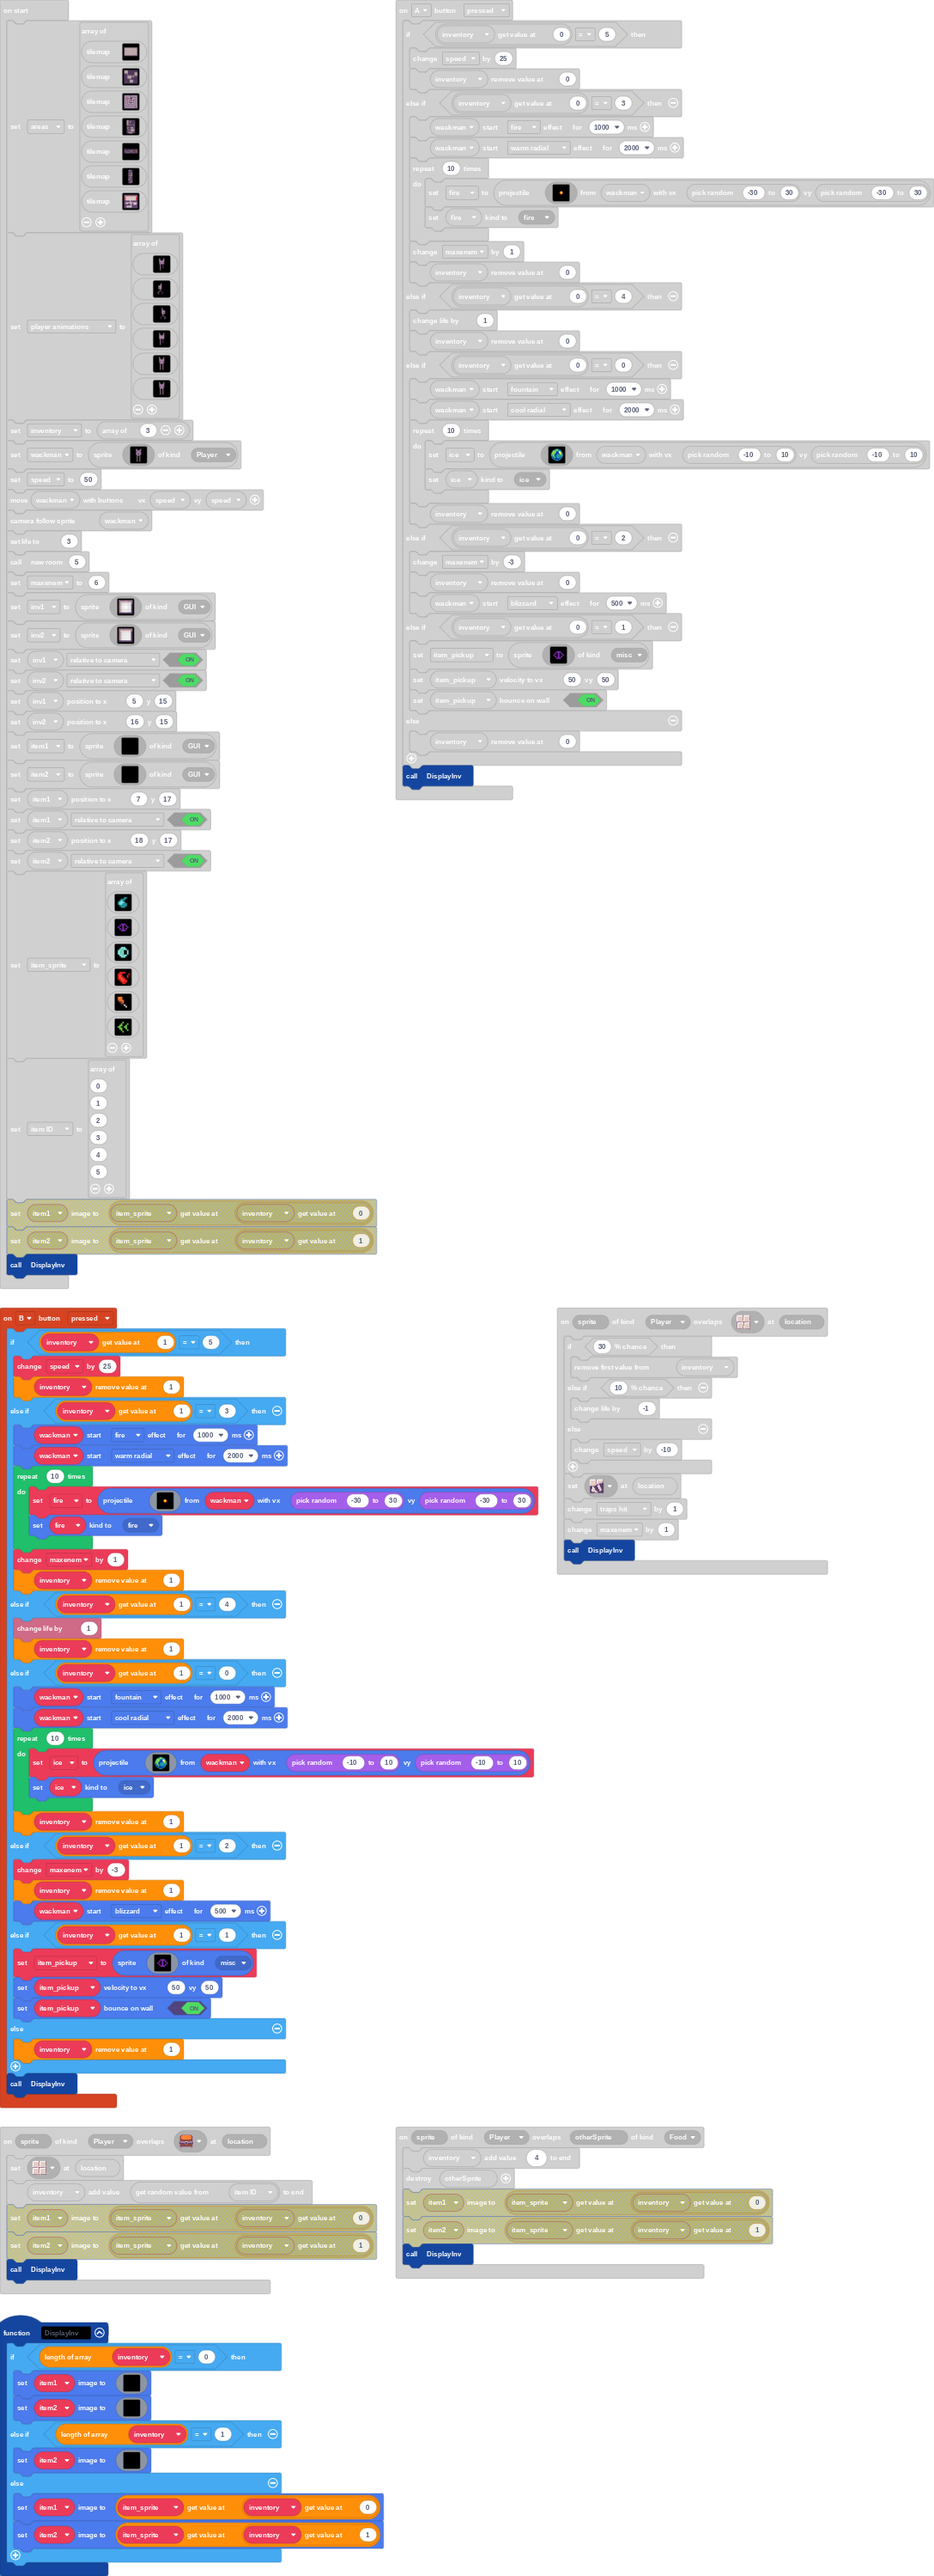
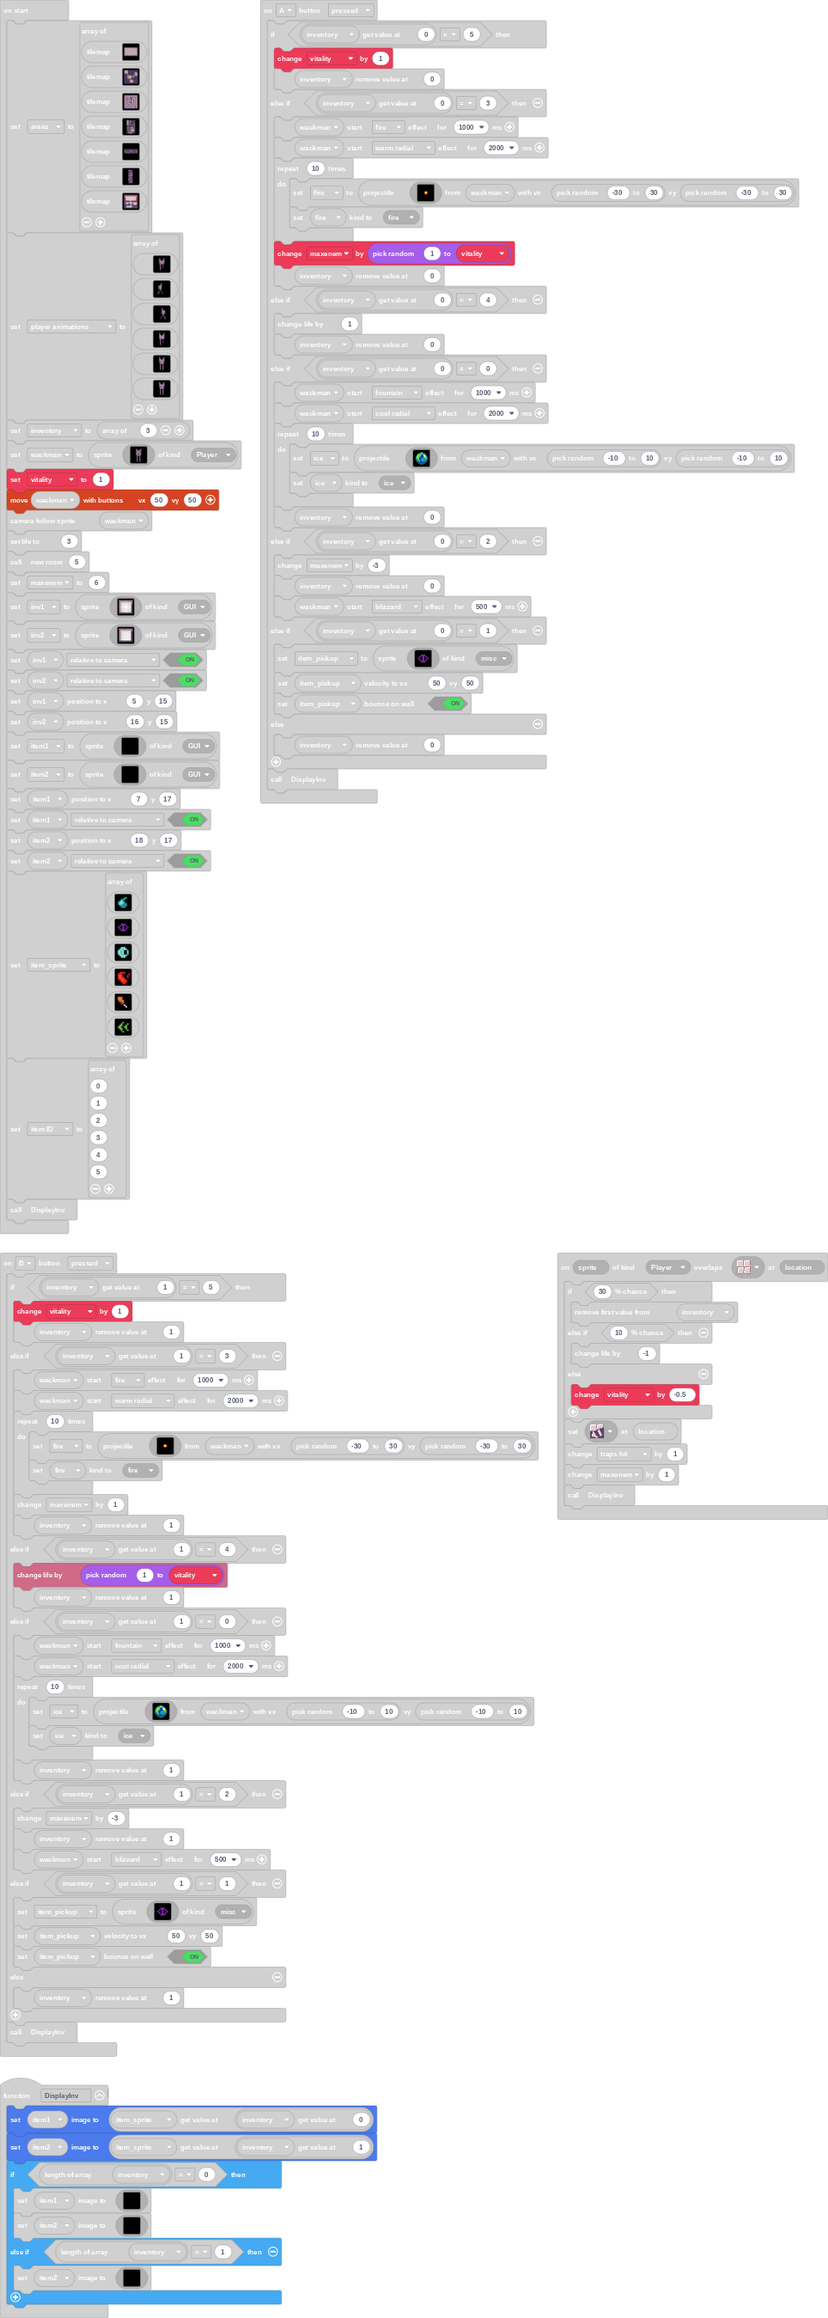
vitality

diff --git a/main.ts b/main.ts
@@ -14,7 +14,7 @@ controller.up.onEvent(ControllerButtonEvent.Pressed, function () {
 })
 controller.B.onEvent(ControllerButtonEvent.Pressed, function () {
     if (inventory[1] == 5) {
-        speed += 25
+        vitality += 1
         inventory.removeAt(1)
     } else if (inventory[1] == 3) {
         wackman.startEffect(effects.fire, 1000)
@@ -43,7 +43,7 @@ controller.B.onEvent(ControllerButtonEvent.Pressed, function () {
         maxenem += 1
         inventory.removeAt(1)
     } else if (inventory[1] == 4) {
-        info.changeLifeBy(1)
+        info.changeLifeBy(randint(1, vitality))
         inventory.removeAt(1)
     } else if (inventory[1] == 0) {
         wackman.startEffect(effects.fountain, 1000)
@@ -93,7 +93,7 @@ sprites.onOverlap(SpriteKind.fire, SpriteKind.Enemy, function (sprite, otherSpri
 })
 controller.A.onEvent(ControllerButtonEvent.Pressed, function () {
     if (inventory[0] == 5) {
-        speed += 25
+        vitality += 1
         inventory.removeAt(0)
     } else if (inventory[0] == 3) {
         wackman.startEffect(effects.fire, 1000)
@@ -119,7 +119,7 @@ controller.A.onEvent(ControllerButtonEvent.Pressed, function () {
                 `, wackman, randint(-30, 30), randint(-30, 30))
             fire.setKind(SpriteKind.fire)
         }
-        maxenem += 1
+        maxenem += randint(1, vitality)
         inventory.removeAt(0)
     } else if (inventory[0] == 4) {
         info.changeLifeBy(1)
@@ -171,6 +171,8 @@ controller.left.onEvent(ControllerButtonEvent.Pressed, function () {
     )
 })
 function DisplayInv () {
+    item1.setImage(item_sprite[inventory[0]])
+    item2.setImage(item_sprite[inventory[1]])
     if (inventory.length == 0) {
         item1.setImage(img`
             . . . . . . . . . . . . . . . . 
@@ -227,9 +229,6 @@ function DisplayInv () {
             . . . . . . . . . . . . . . . . 
             . . . . . . . . . . . . . . . . 
             `)
-    } else {
-        item1.setImage(item_sprite[inventory[0]])
-        item2.setImage(item_sprite[inventory[1]])
     }
 }
 scene.onOverlapTile(SpriteKind.Player, sprites.dungeon.chestClosed, function (sprite, location) {
@@ -326,7 +325,7 @@ scene.onOverlapTile(SpriteKind.Player, sprites.dungeon.floorLight4, function (sp
     } else if (Math.percentChance(10)) {
         info.changeLifeBy(-1)
     } else {
-        speed += -10
+        vitality += -0.5
     }
     tiles.setTileAt(location, sprites.dungeon.floorLight3)
     traps_hit += 1
@@ -346,6 +345,7 @@ let item_sprite: Image[] = []
 let item2: Sprite = null
 let item1: Sprite = null
 let maxenem = 0
+let vitality = 0
 let wackman: Sprite = null
 let inventory: number[] = []
 let player_animations: Image[][] = []
@@ -369,8 +369,8 @@ assets.animation`wacky boy DEAD`
 ]
 inventory = [3]
 wackman = sprites.create(assets.image`wacky boy item`, SpriteKind.Player)
-let speed = 50
-controller.moveSprite(wackman, speed, speed)
+vitality = 1
+controller.moveSprite(wackman, 50, 50)
 scene.cameraFollowSprite(wackman)
 info.setLife(3)
 new_room(5)
